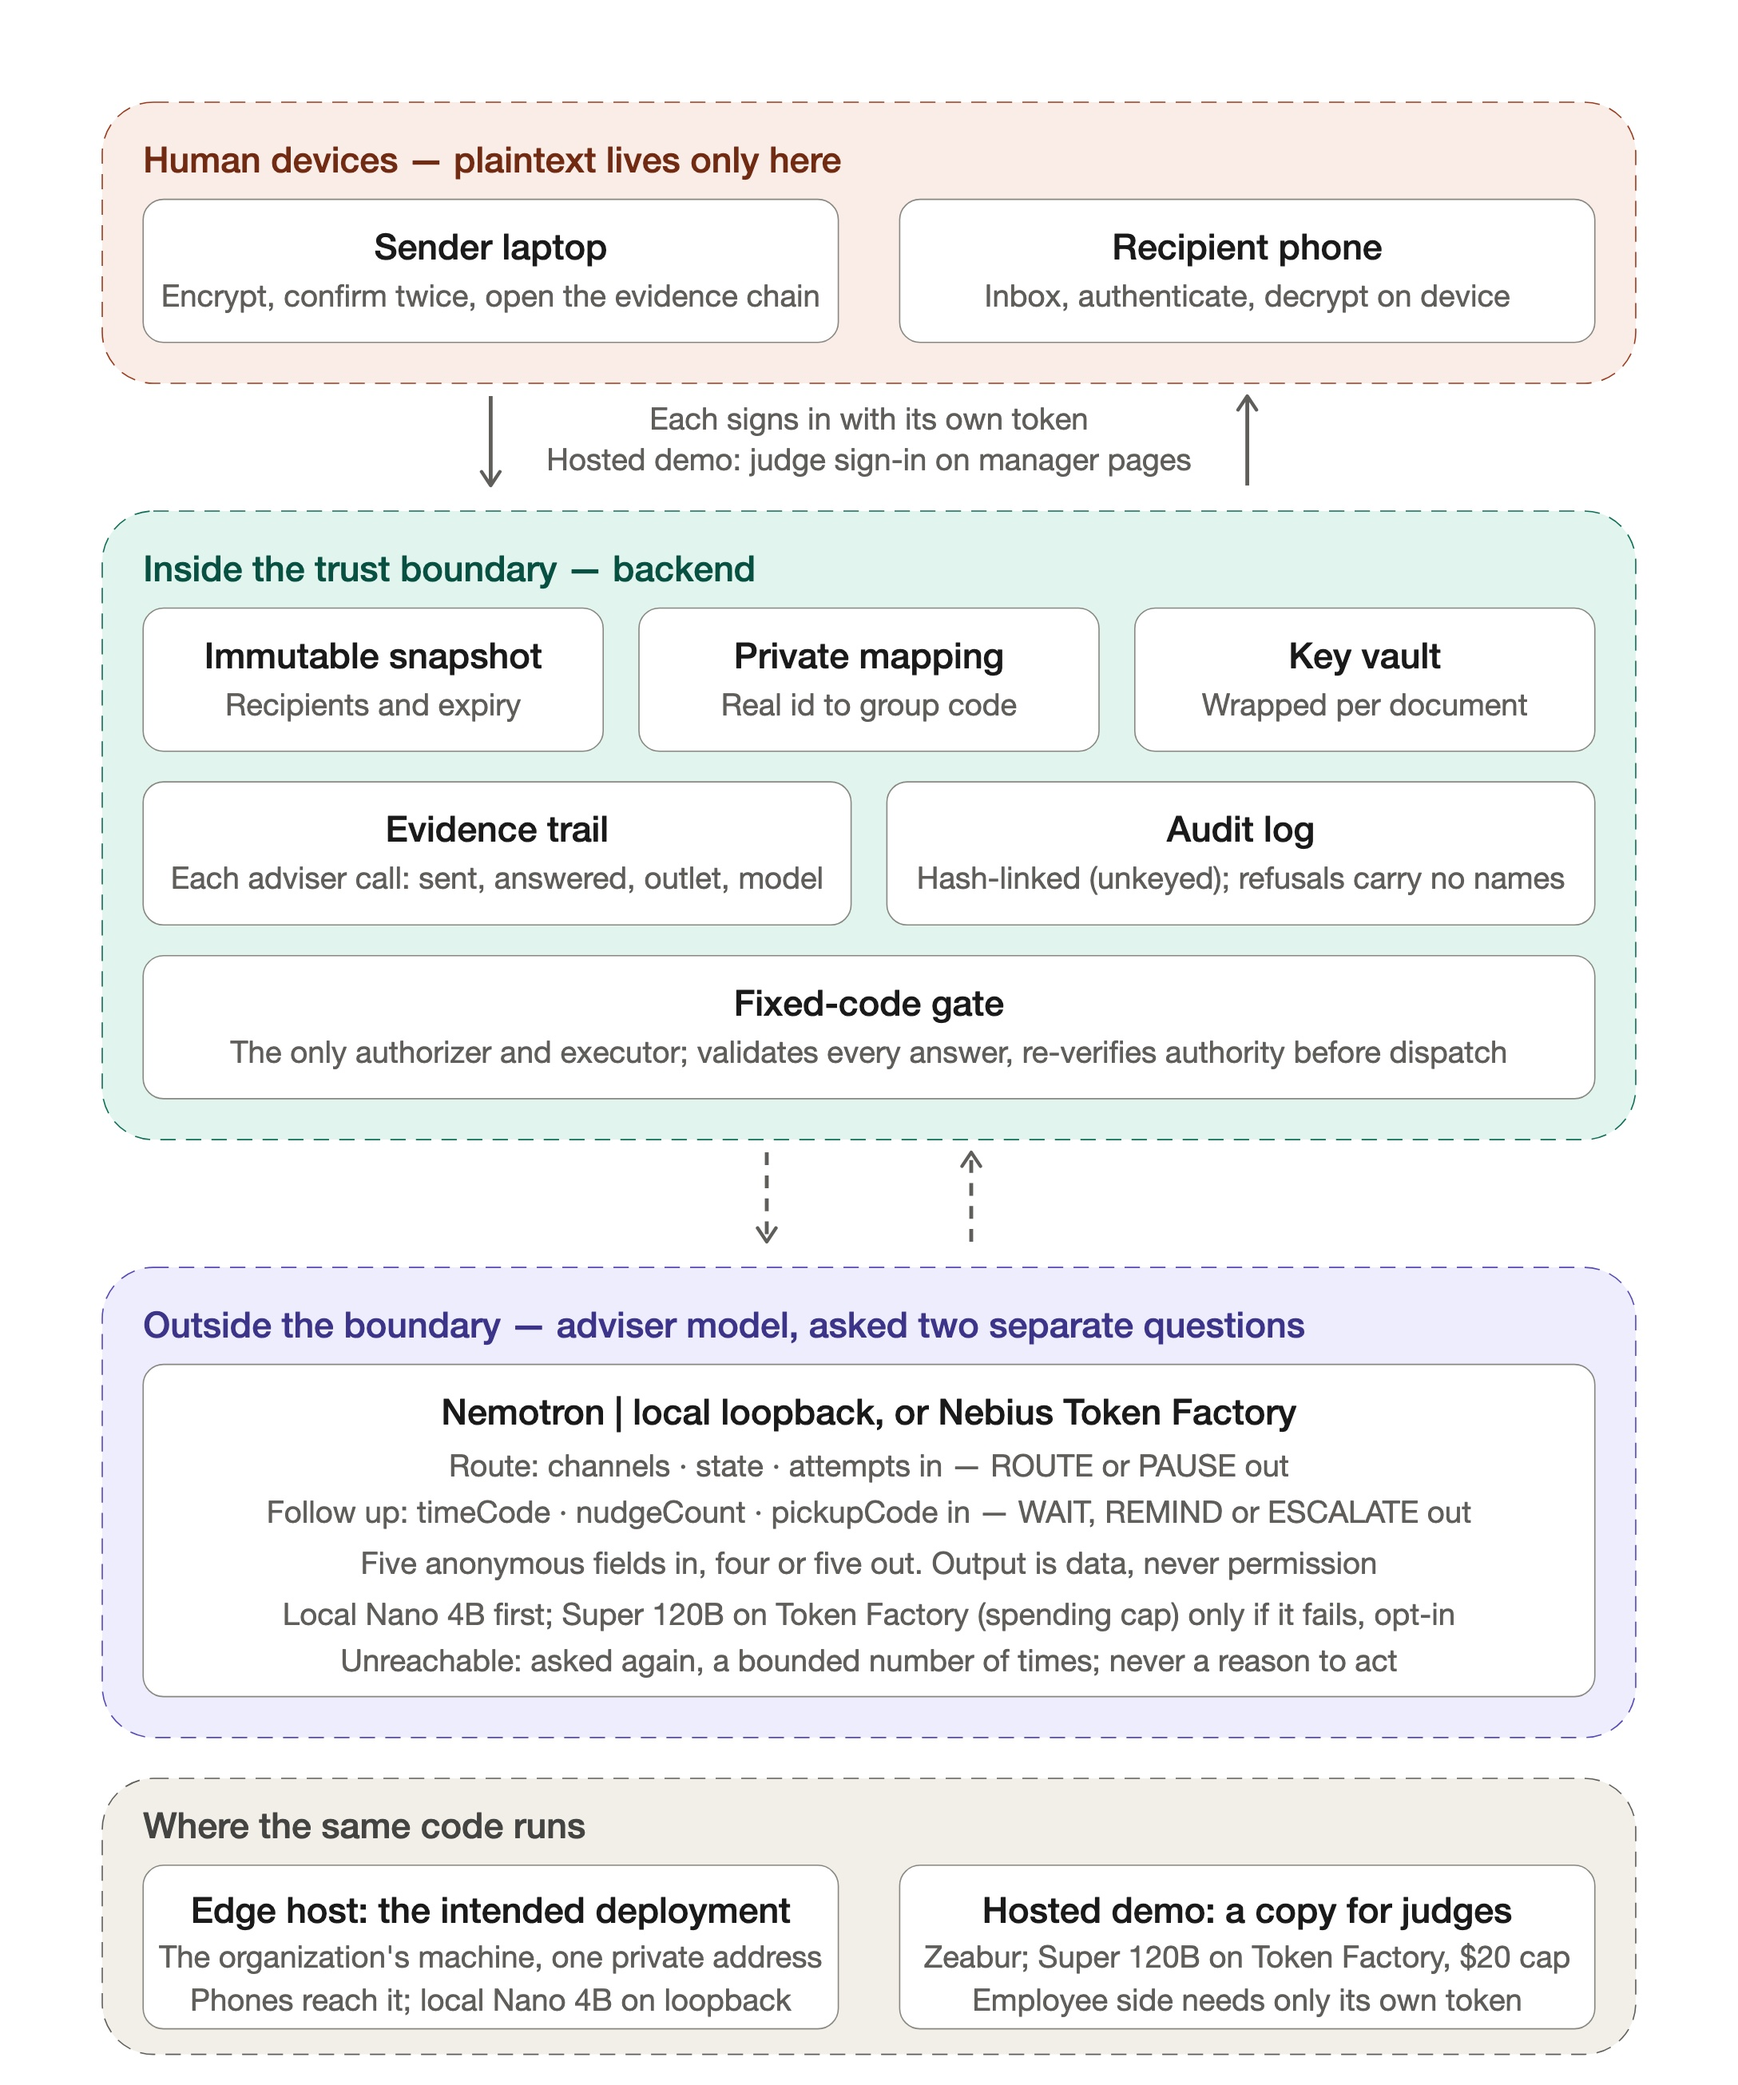
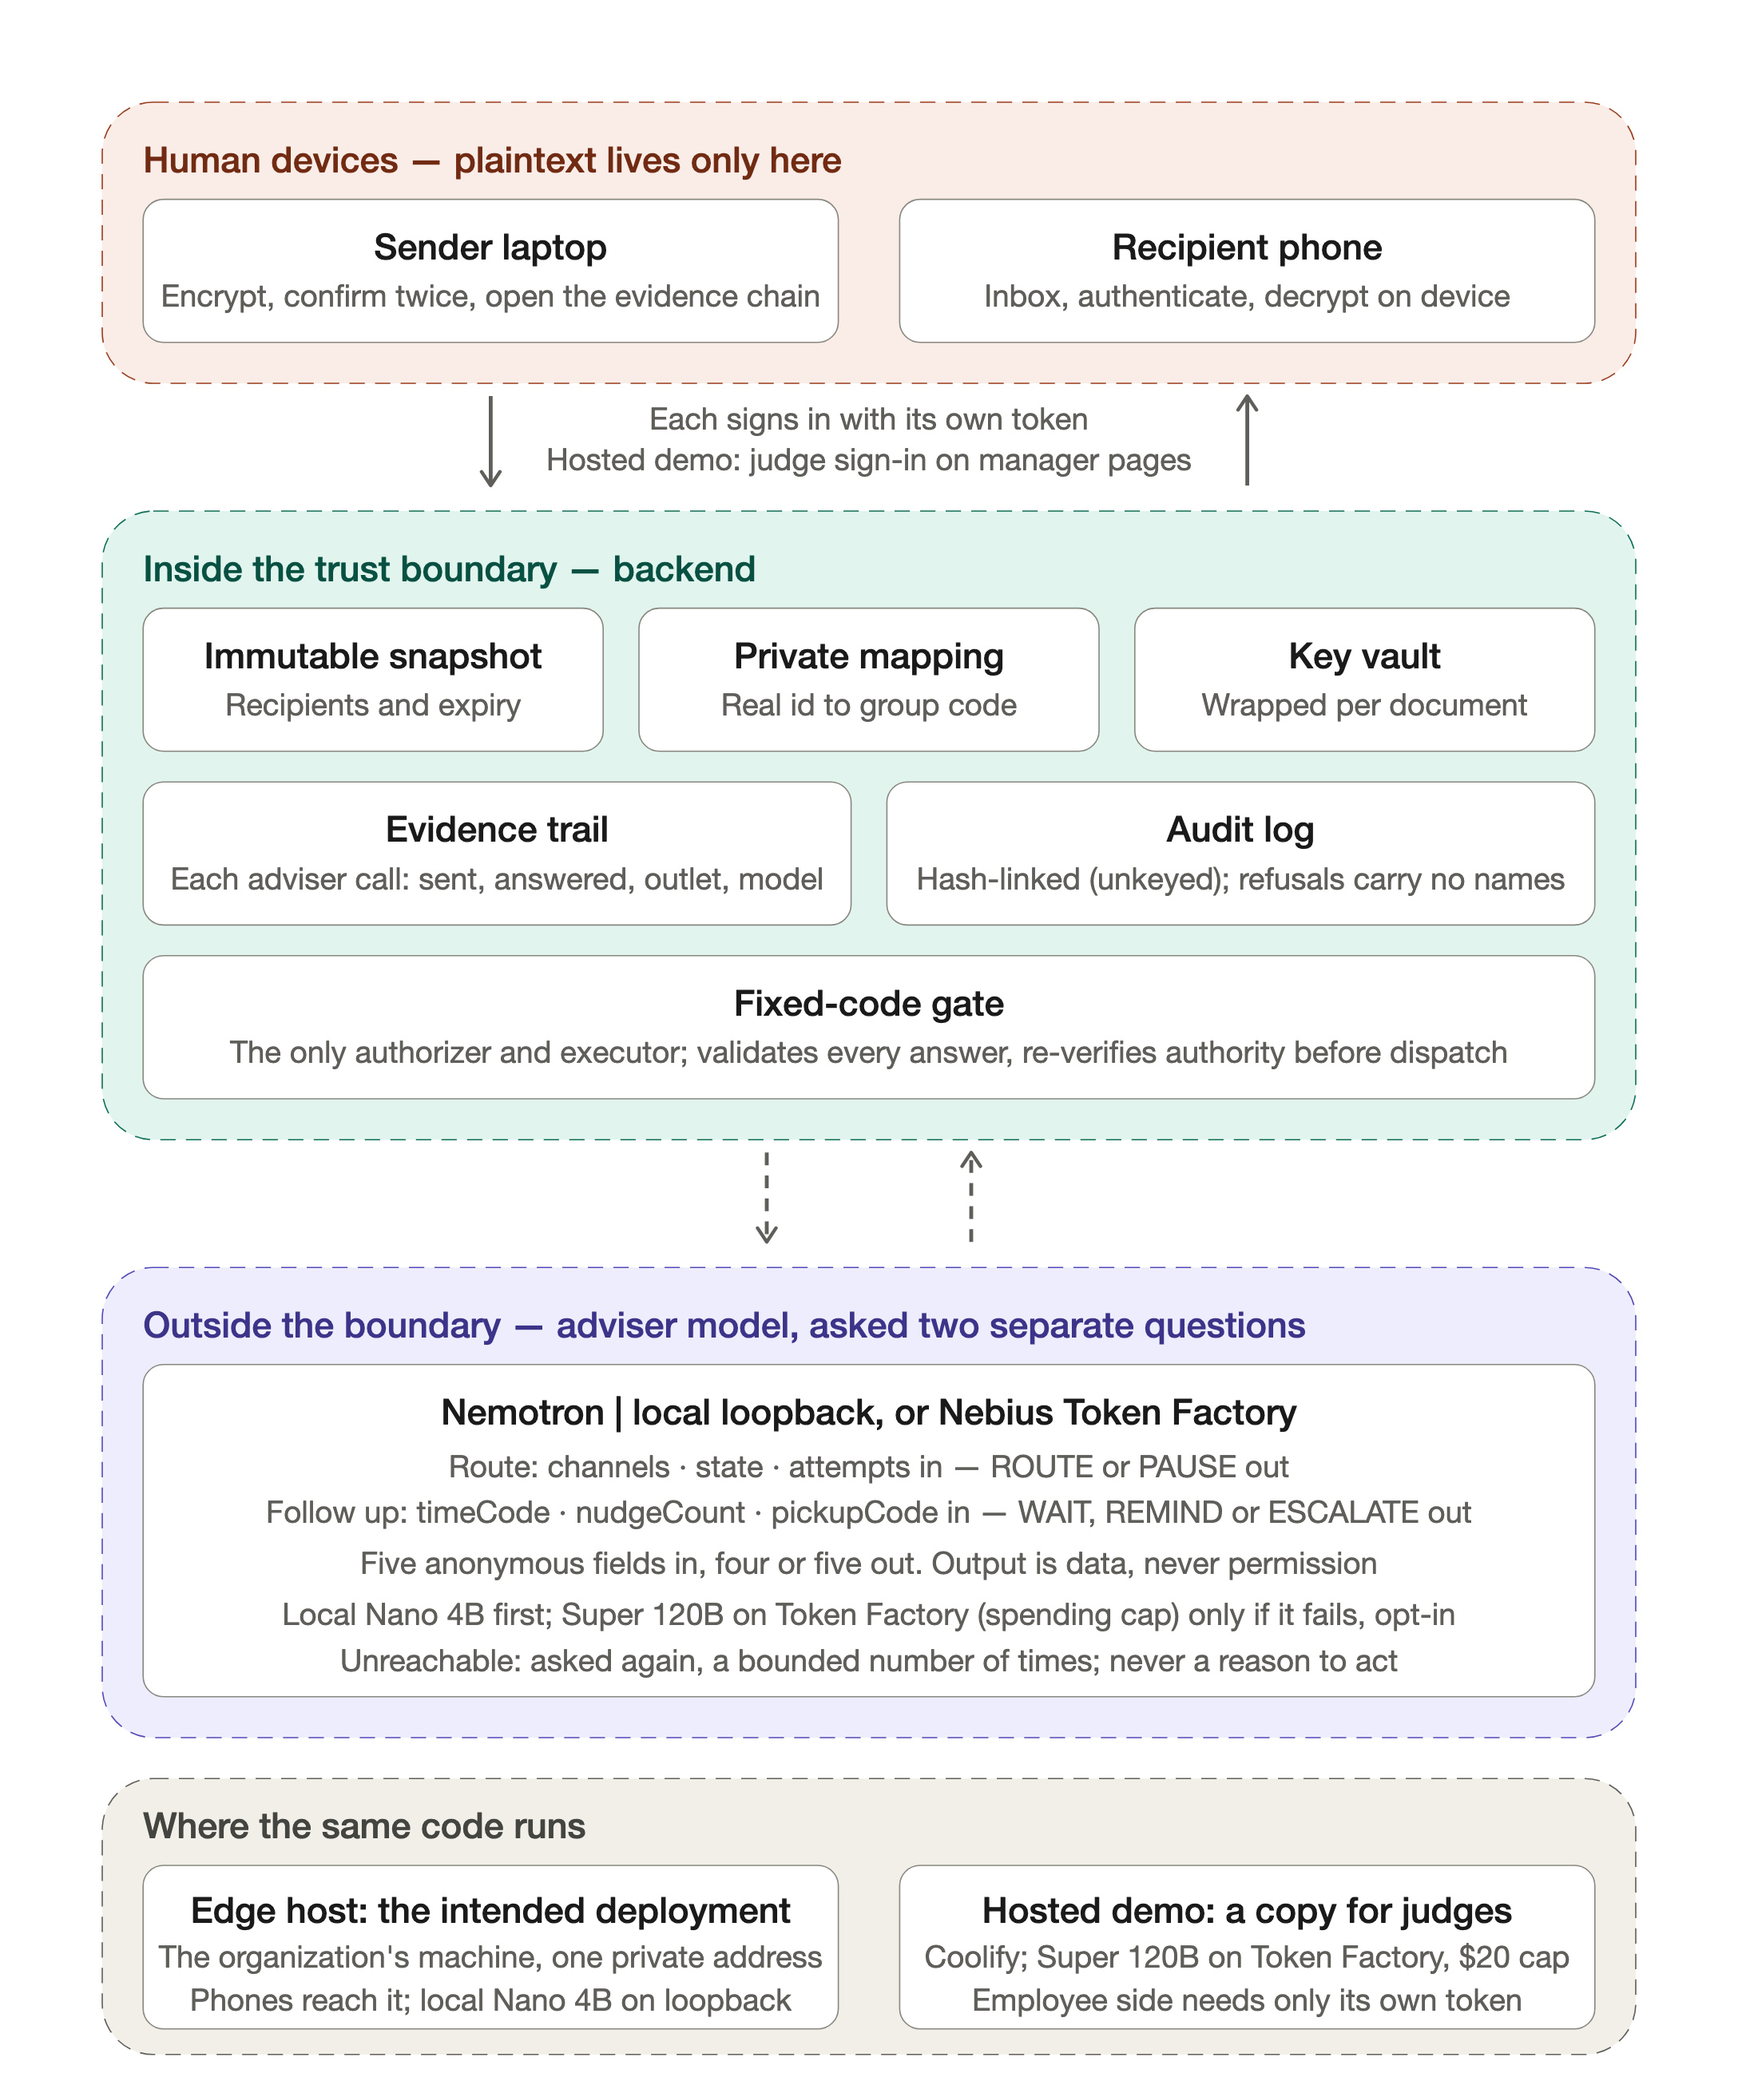
docs: the hosted demo runs on a self-hosted Coolify server since 2026-10-22
The trust-boundary diagram, the SBOM notes and generator, and the rule
alignment still named Zeabur as the hosted demo's platform. Since
2026-10-22 the Cloudflare Worker in front of enclave.jace0423.com
forwards to a Coolify instance of the same commit on a patched Node 22.

- architecture-trust-boundary.svg: the hosted-demo box and <desc> say
  Coolify; a dated revision line records the move. PNG and JPG are
  re-rendered from the SVG at the same size (2176x2611); only the
  changed label differs.
- generate-sbom.mjs: the hosting service is service-coolify-hosting;
  the test checks the new ref. sbom.md follows.
- official-rule-alignment.md: the hosting platform, not Zeabur by name,
  is not Nebius compute.

test:all: 872 pass, 0 fail.

Changed region(s): [[0.5312, 0.9307, 0.625, 0.9617]]

diff --git a/docs/compliance/sbom.md b/docs/compliance/sbom.md
@@ -32,7 +32,7 @@ convention for the described product. The `components` array holds what it relie
 | `zte:baseCommit` | Generated from `git rev-parse HEAD` when run inside a git checkout; omitted otherwise |
 | Serial number and timestamp | Generated on every run (`randomUUID()`, `new Date()`), so two runs never produce identical bytes |
 | Model, runtime, test-tooling components, the built-in module list, the disclaimer | Hand-kept in the `TEMPLATE` constant of `scripts/generate-sbom.mjs` |
-| `services` (Nebius Token Factory, Zeabur) | Hand-kept in the `SERVICES` constant of `scripts/generate-sbom.mjs` |
+| `services` (Nebius Token Factory, Coolify hosting) | Hand-kept in the `SERVICES` constant of `scripts/generate-sbom.mjs` |
 | Signature, vulnerability data, weight hashes, model licences | Not present anywhere |
 
 ## Components In The Generated Document
@@ -49,7 +49,7 @@ convention for the described product. The `components` array holds what it relie
 | `mermaid-diagram-tooling` | library | excluded | Supplied through `MERMAID_DIST` for `scripts/render-architecture.mjs`; version not recorded |
 
 Services listed (CycloneDX `services`, hand-kept in `SERVICES`): `service-nebius-token-factory` (the only Nebius service the project
-uses, `README.md`) and `service-zeabur-hosting` (the hosted demo platform). The `zte:access` property of the hosted model component names
+uses, `README.md`) and `service-coolify-hosting` (the hosted demo platform: a self-hosted Coolify server behind Cloudflare, Zeabur until 2026-10-22). The `zte:access` property of the hosted model component names
 `service-nebius-token-factory`; `scripts/generate-sbom.test.mjs` test "the services the model components point at exist in the document" checks that every
 `service-...` reference resolves.
 
@@ -84,5 +84,5 @@ prints nothing; `--check` prints `sbom check ok: zero third-party packages decla
   says so). A bundled toolchain would need its own review.
 - **GAP:** no check validates the file against the CycloneDX 1.5 JSON schema in this repository; only
   JSON well-formedness is tested (`scripts/generate-sbom.test.mjs` test "the document is valid JSON on the command line").
-- The hosted instance runs on a platform this repository does not control (Zeabur); its base image and
-  Node.js release are not recorded.
+- The hosted instance runs on a self-hosted Coolify server outside this repository (Zeabur until 2026-10-22); its base image and
+  Node.js release are not recorded here.

diff --git a/docs/agent/official-rule-alignment.md b/docs/agent/official-rule-alignment.md
@@ -18,7 +18,7 @@ The official page was read again on 2026-10-08. No required item changed since 2
 The rules and overview pages were read again on 2026-09-24.
 
 - The overview's submission list asks for a "Working demo URL (except Physical AI submissions)". The rules accept "a working demo, hosted application, or test build". The stricter reading is followed: a hosted instance is deployed at `https://zero-trust-edge-enclave.zeabur.app`.
-- The rules define running on Token Factory as a runtime call to its inference API. The hosted instance makes those calls with the owner's key, under a USD 20 spending cap; Zeabur itself is not Nebius compute and is not claimed as such.
+- The rules define running on Token Factory as a runtime call to its inference API. The hosted instance makes those calls with the owner's key, under a USD 20 spending cap; the hosting platform (Zeabur until 2026-10-22, a self-hosted Coolify server since) is not Nebius compute and is not claimed as such.
 - Free judge access is provided without organizer input: a judge sign-in in front of the site, and per-role tokens behind it, both given in the file uploaded privately with the submission (the form has no testing-instructions field). The earlier organizer question below no longer blocks submission.
 - The overview asks for a demo video "with audio covering how you used Nebius Token Factory". Narration is therefore required, not only recommended.
 
